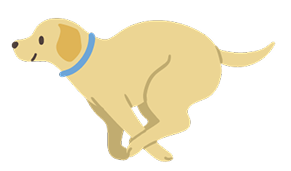
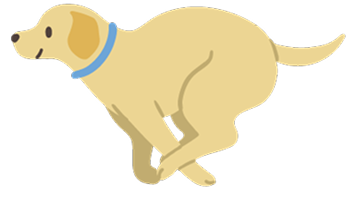
rundogサイズ調整

diff --git a/css/style.css b/css/style.css
@@ -1381,11 +1381,19 @@ a:hover {
   font-size: 20px;
   font-weight: 800;
 }
-@media screen and (max-width: 768px) {
+@media screen and (max-width: 1024px) {
   .shop-list__title {
-    font-size: 18px;
+    font-size: 16px;
     line-height: 22px;
   }
+}
+@media screen and (max-width: 768px) {
+  .shop-list__title {
+    font-size: 12px;
+  }
+}
+.shop-list__title::nth-child(1) {
+  height: 38px;
 }
 
 .shop-list__image {
@@ -1445,10 +1453,8 @@ a:hover {
 
 .dog-wrapper {
   position: absolute;
-  bottom: 0;
+  bottom: 20px;
   left: 100%;
-  width: 250px;
-  height: 134px;
   z-index: 5; /* 犬を芝生の前面に配置 */
   display: -webkit-box;
   display: -ms-flexbox;
@@ -1459,12 +1465,8 @@ a:hover {
   -webkit-box-pack: center;
       -ms-flex-pack: center;
           justify-content: center;
-}
-@media screen and (max-width: 768px) {
-  .dog-wrapper {
-    width: 180px;
-    height: 97px;
-  }
+  width: 150px;
+  height: 70px;
 }
 .dog-wrapper img {
   width: 100%;
@@ -1474,9 +1476,18 @@ a:hover {
   left: 0;
   opacity: 0;
 }
+.dog-wrapper img:nth-child(1) {
+  width: 117px;
+  height: 66px;
+}
+.dog-wrapper img:nth-child(2) {
+  width: 132px;
+  height: 57px;
+}
 .dog-wrapper img.active {
   opacity: 1;
 }
+
 .withdog {
   padding-block: 72px;
   background: url(../img/withdog-bg.png) repeat center center/cover;

diff --git a/sass/style.scss b/sass/style.scss
@@ -1307,9 +1307,15 @@ a {
   color: #59383b;
   font-size: 20px;
   font-weight: 800;
-  @include mq(md) {
-    font-size: 18px;
+  @include mq(lg) {
+    font-size: 16px;
     line-height: 22px;
+  }
+  @include mq(md) {
+    font-size: 12px;
+  }
+  &::nth-child(1) {
+    height: 38px;
   }
 }
 .shop-list__image {
@@ -1354,18 +1360,14 @@ a {
 
 .dog-wrapper {
   position: absolute;
-  bottom: 0;
+  bottom: 20px;
   left: 100%;
-  width: 250px;
-  height: 134px;
   z-index: 5; /* 犬を芝生の前面に配置 */
   display: flex;
   align-items: center;
   justify-content: center;
-  @include mq(md) {
-    width: 180px;
-    height: 97px;
-  }
+  width: 150px;
+  height: 70px;
   img {
     width: 100%;
     height: 100%;
@@ -1373,10 +1375,16 @@ a {
     top: 0;
     left: 0;
     opacity: 0;
+    &:nth-child(1) {
+      width: 117px;
+      height: 66px;
+    }
+    &:nth-child(2) {
+      width: 132px;
+      height: 57px;
+    }
     &.active {
       opacity: 1;
-    }
-    @include mq(md) {
     }
   }
 }

diff --git a/index.html b/index.html
@@ -439,8 +439,8 @@
           </div>
         </div>
         <div class="dog-wrapper">
-          <img src="../img/shoplist-rundog01.png" alt="" class="active" />
-          <img src="../img/shoplist-rundog02.png" alt="" />
+          <img src="../img/shoplist-rundog01.png" alt="走る犬" />
+          <img src="../img/shoplist-rundog02.png" alt="走る犬" />
         </div>
       </section>
 
